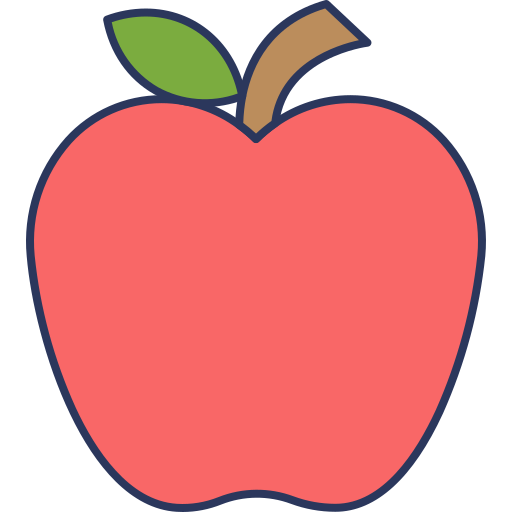
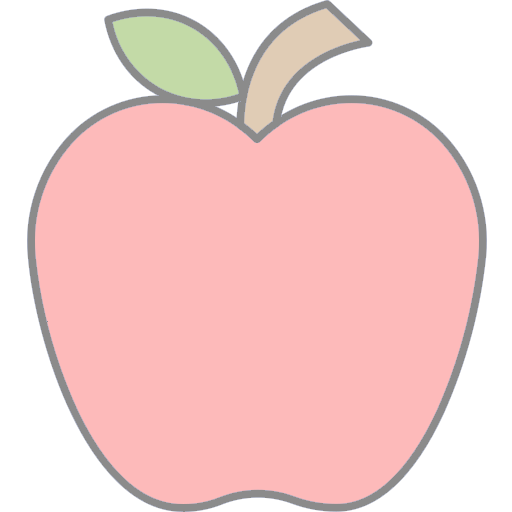
feature: 셀 배경 이미지 추가, 일시정지 화면 가림
- 보드의 셀 배경으로 사과 이미지 추가 (가독성을 위해 사과 이미지는 투명도를 조절)
- 사과 배경 이미지에 맞춰 셀에 그려지는 숫자 혹은 J 텍스트 위치 조절
- 일시정지 때 보드를 검은 화면으로 가리는 레이아웃 추가

diff --git a/Source/UI/GameForm.cs b/Source/UI/GameForm.cs
@@ -37,6 +37,7 @@ namespace project_cs.Source.UI
         private System.Windows.Forms.Timer hintBlinkTimer;
         private bool showHintHighlight = false;
         private bool isJokerMode = false;
+        private Image appleImage;
 
         public GameForm(int rows = 10, int cols = 10, Difficulty difficulty = Difficulty.Normal, MainMenuForm owner = null)
         {
@@ -67,6 +68,10 @@ namespace project_cs.Source.UI
             gameLogic = new GameLogic(board, gameData);
             gameLogic.startGame();
             lblBoardInfo.Text = $"{rows}x{cols} 보드";
+
+            string imagePath = System.IO.Path.Combine(Application.StartupPath, "Assets", "Images", "apple.png");
+            if (System.IO.File.Exists(imagePath))
+                appleImage = Image.FromFile(imagePath);
 
             inventory = new ItemInventory();
             switch (difficulty)
@@ -155,6 +160,8 @@ namespace project_cs.Source.UI
 
                 if (sender is Button btn) btn.Text = "일시정지";
             }
+
+            drawBoard();
         }
 
         // ─────────────────────────────────────────────
@@ -407,27 +414,51 @@ namespace project_cs.Source.UI
             {
                 for (int c = 0; c < cols; c++)
                 {
-                    Cell cell = board.getCell(new Position(c, r));
-                    if (cell == null || !cell.hasApple()) continue;
-
                     int x = c * cellWidth;
                     int y = r * cellHeight;
 
-                    g.FillRectangle(Brushes.LightGreen, x + 1, y + 1, cellWidth - 2, cellHeight - 2);
+                    Cell cell = board.getCell(new Position(c, r));
 
-                    Font font = new Font("맑은 고딕", cellWidth * 0.3f);
+                    if (cell == null || !cell.hasApple())
+                    {
+                        // 빈 셀 — 사과 이미지 없이 회색 배경만 표시
+                        using (SolidBrush emptyBrush = new SolidBrush(Color.FromArgb(220, 220, 220)))
+                            g.FillRectangle(emptyBrush, x + 1, y + 1, cellWidth - 2, cellHeight - 2);
+                        g.DrawRectangle(Pens.Gray, x, y, cellWidth - 1, cellHeight - 1);
+                        continue;
+                    }
+
+                    Font font = new Font("맑은 고딕", cellWidth * 0.2f, FontStyle.Bold);
+
                     if (cell.apple.isJoker())
                     {
-                        g.FillRectangle(Brushes.Orange, x + 1, y + 1, cellWidth - 2, cellHeight - 2);
+                        // 조커 사과 — 주황 배경 + J
+                        if (appleImage != null)
+                            g.DrawImage(appleImage, x + 1, y + 1, cellWidth - 2, cellHeight - 2);
+                        else
+                            g.FillRectangle(Brushes.Orange, x + 1, y + 1, cellWidth - 2, cellHeight - 2);
+
                         SizeF jSize = g.MeasureString("J", font);
-                        g.DrawString("J", font, Brushes.DarkRed, x + (cellWidth - jSize.Width) / 2, y + (cellHeight - jSize.Height) / 2);
+                        g.DrawString("J", font, Brushes.DarkRed,
+                            x + (cellWidth - jSize.Width) / 2,
+                            y + (cellHeight - jSize.Height) / 2 + (cellHeight/20));
                     }
                     else
                     {
+                        // 일반 사과 — apple.png 이미지 배경 + 숫자
+                        if (appleImage != null)
+                            g.DrawImage(appleImage, x + 1, y + 1, cellWidth - 2, cellHeight - 2);
+                        else
+                            g.FillRectangle(Brushes.LightGreen, x + 1, y + 1, cellWidth - 2, cellHeight - 2);
+
                         string value = cell.apple.getValue().ToString();
                         SizeF textSize = g.MeasureString(value, font);
                         float textX = x + (cellWidth - textSize.Width) / 2;
-                        float textY = y + (cellHeight - textSize.Height) / 2;
+                        float textY = y + (cellHeight - textSize.Height) / 2 + (cellHeight / 20);
+
+                        // 숫자 가독성을 위해 흰색 테두리 효과(외곽선) 후 진한 색 텍스트
+                        g.DrawString(value, font, Brushes.White,
+                            textX - 1, textY - 1);
                         g.DrawString(value, font, Brushes.DarkGreen, textX, textY);
                     }
 
@@ -471,6 +502,21 @@ namespace project_cs.Source.UI
                 using (Pen dragPen = new Pen(Color.Red, 2))
                 {
                     g.DrawRectangle(dragPen, x, y, w, h);
+                }
+            }
+
+            if (isPaused)
+            {
+                using (SolidBrush overlay = new SolidBrush(Color.FromArgb(255, 0, 0, 0)))
+                    g.FillRectangle(overlay, 0, 0, pnlBoard.Width, pnlBoard.Height);
+
+                string pauseText = "일시정지";
+                using (Font pauseFont = new Font("맑은 고딕", 28f, FontStyle.Bold))
+                {
+                    SizeF textSize = g.MeasureString(pauseText, pauseFont);
+                    float tx = (pnlBoard.Width - textSize.Width) / 2;
+                    float ty = (pnlBoard.Height - textSize.Height) / 2;
+                    g.DrawString(pauseText, pauseFont, Brushes.White, tx, ty);
                 }
             }
         }